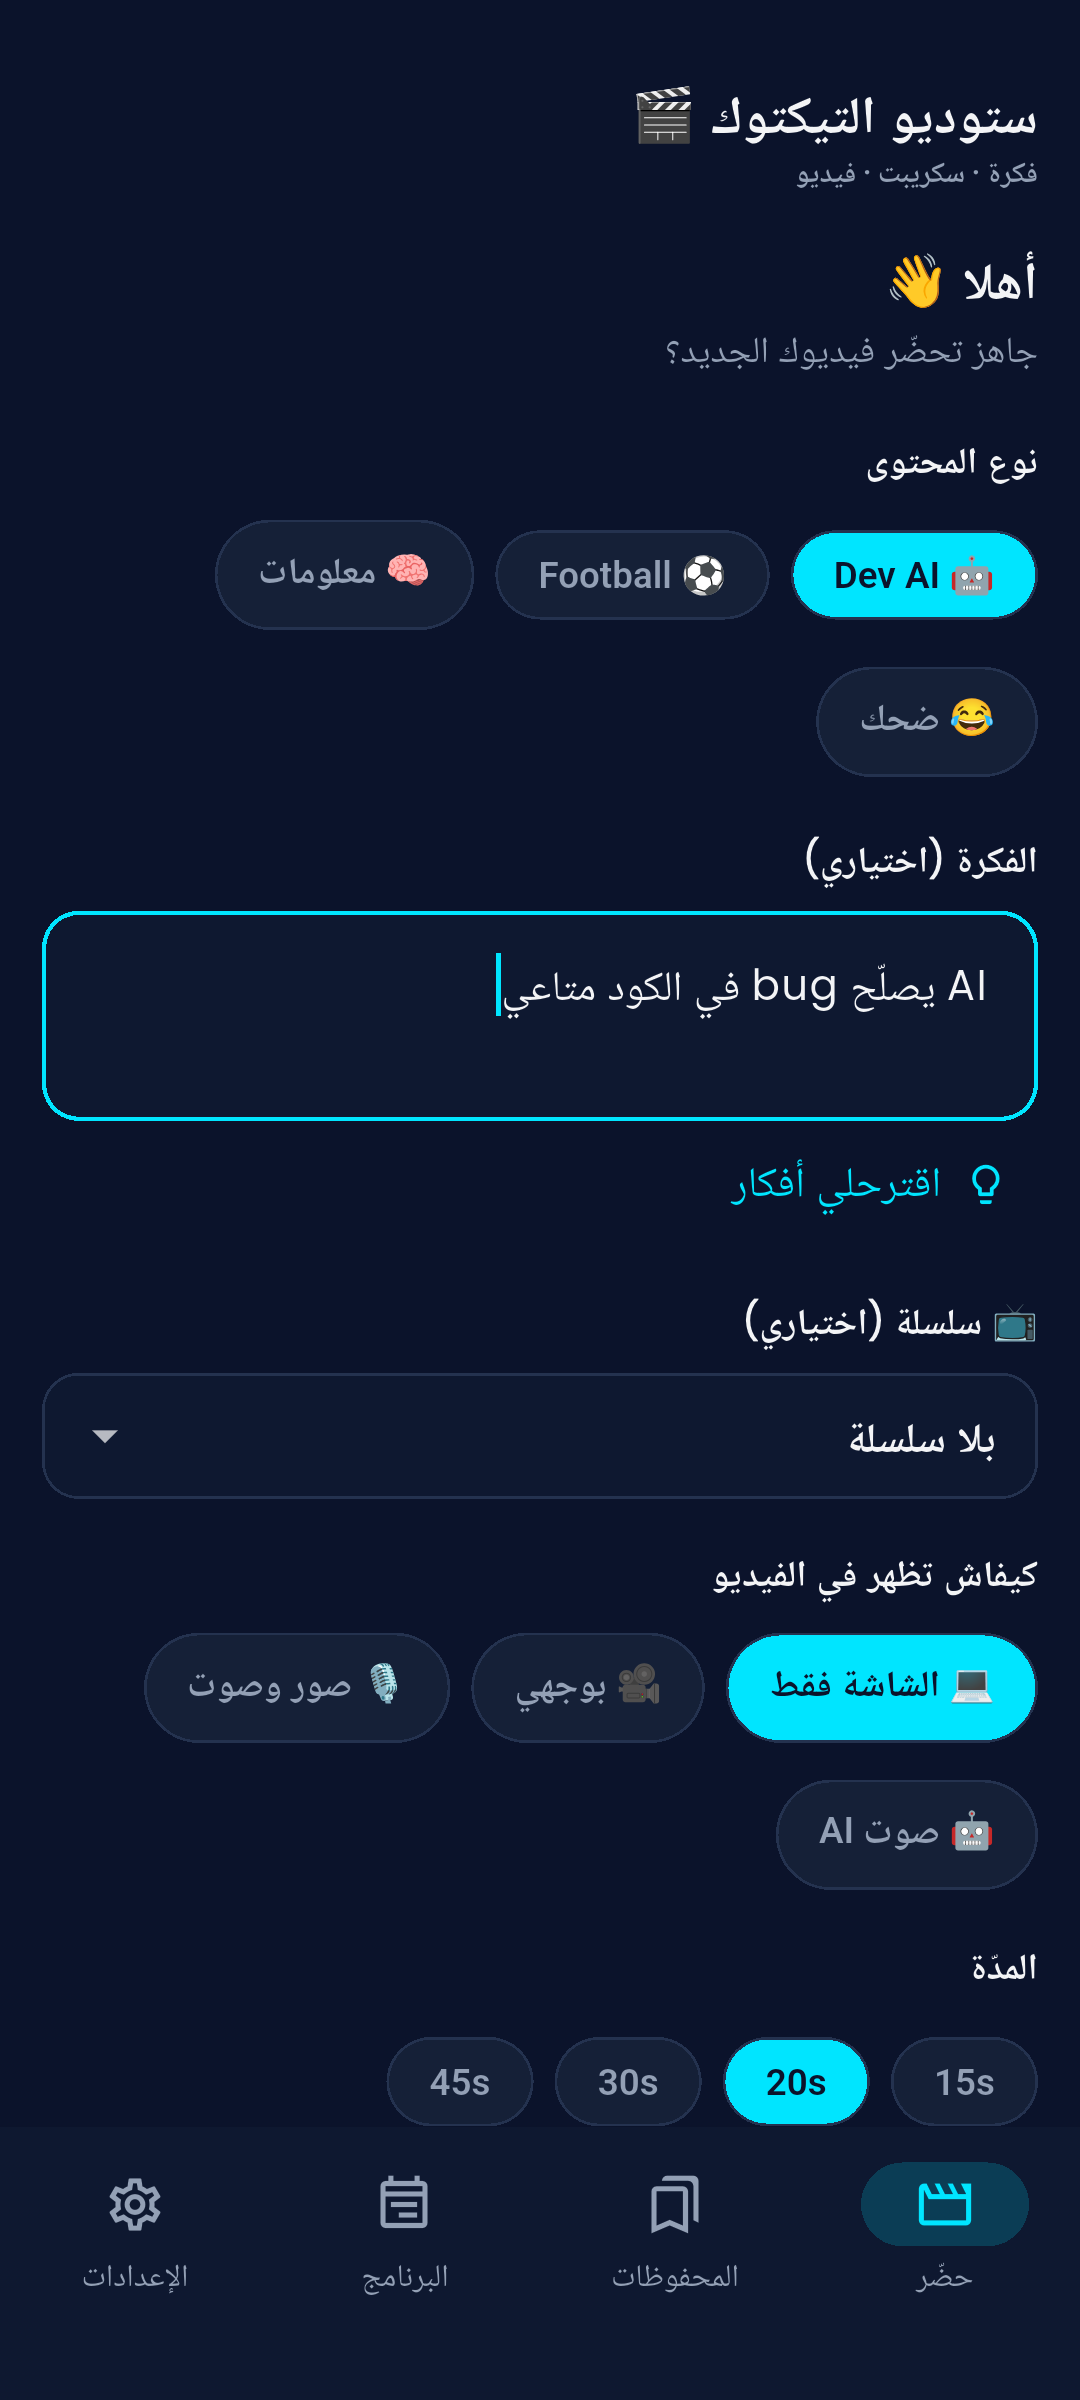
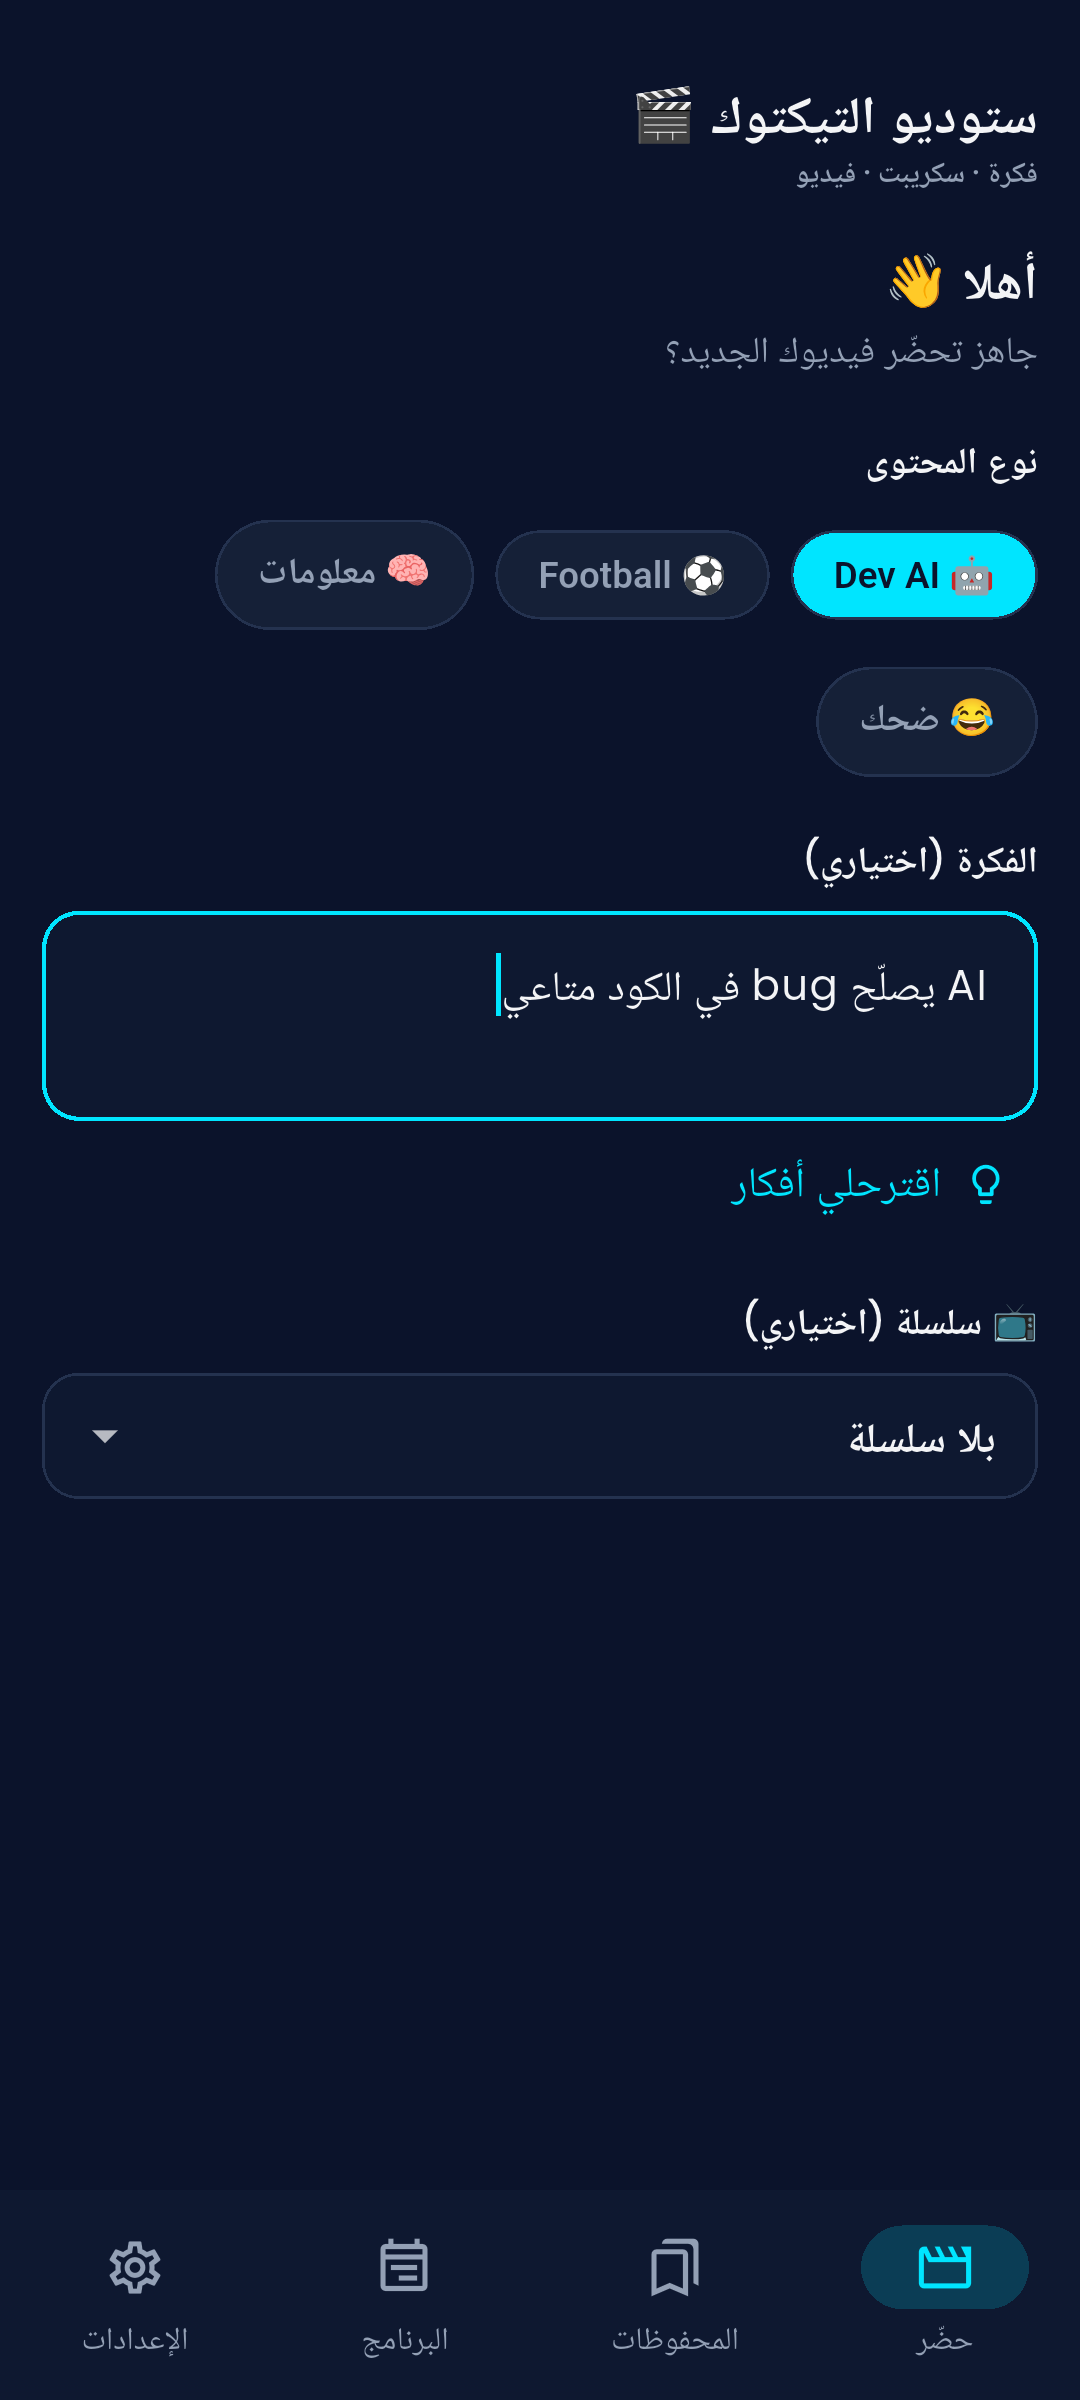
Tests: capture + enregistrement caméra (vidéo + son) dans screenshots_test
- screenshots_test: étape RecordScreen (Teleprompter → 🎥), enregistrement
  réel (sجّل → 3-2-1 → ~5s → وقّف) et vérif sauvegarde galerie
- tapVisible plus robuste (scroll multi-scrollable + attente render)
- captures: 6_record, 7_recording (preview live + son), 8_saved
- Vérifié: MP4 1.66 Mo avec piste vidéo (avc1/H.264) + piste audio (soun)

diff --git a/integration_test/screenshots_test.dart b/integration_test/screenshots_test.dart
@@ -5,6 +5,7 @@
 
 import 'dart:convert';
 
+import 'package:camera/camera.dart';
 import 'package:flutter/material.dart';
 import 'package:flutter_test/flutter_test.dart';
 import 'package:http/http.dart' as http;
@@ -67,13 +68,19 @@ void main() {
   }
 
   Future<void> tapVisible(WidgetTester t, Finder f) async {
+    // نلوّج على العنصر: نجرّبو كل Scrollable عمودي (فمّا scrollers أفقية للـchips)
     if (f.evaluate().isEmpty) {
-      final sc = find.byType(Scrollable);
-      if (sc.evaluate().isNotEmpty) {
+      for (final sc in find.byType(Scrollable).evaluate()) {
+        if (f.evaluate().isNotEmpty) break;
         try {
-          await t.scrollUntilVisible(f, 250, scrollable: sc.first);
+          await t.scrollUntilVisible(f, 200,
+              scrollable: find.byWidget(sc.widget), maxScrolls: 30);
         } catch (_) {}
       }
+    }
+    // نستنّى شويّة كان مازال ما بان (render بطيء على émulateur بارد)
+    for (var i = 0; i < 20 && f.evaluate().isEmpty; i++) {
+      await t.pump(const Duration(milliseconds: 200));
     }
     await t.ensureVisible(f);
     await t.pumpAndSettle();
@@ -107,6 +114,47 @@ void main() {
       }
       await tester.pumpAndSettle();
       await shot(tester, '2_result');
+
+      // 6) تسجيل بالكاميرا (Teleprompter → 🎥) — الأذونات تتعطا بالتوازي عبر adb
+      await tapVisible(tester, find.text('Teleprompter'));
+      await tester.pumpAndSettle();
+      await tapVisible(tester, find.byTooltip('سجّل بالكاميرا'));
+      for (var i = 0; i < 100; i++) {
+        await tester.pump(const Duration(milliseconds: 300));
+        if (find.byType(CameraPreview).evaluate().isNotEmpty) break;
+      }
+      await tester.pumpAndSettle();
+      await shot(tester, '6_record');
+
+      // نسجّلو فيديو حقيقي: سجّل → 3-2-1 → ~4s → وقّف → يتسجّل فالـgalerie
+      final recBtn = find.text('سجّل');
+      if (recBtn.evaluate().isNotEmpty) {
+        await tester.tap(recBtn);
+        // العدّ التنازلي 3 ثواني + تسجيل
+        for (var i = 0; i < 24; i++) {
+          await tester.pump(const Duration(milliseconds: 300));
+        }
+        await shot(tester, '7_recording');
+        // نكمّلو شويّة تسجيل
+        for (var i = 0; i < 14; i++) {
+          await tester.pump(const Duration(milliseconds: 300));
+        }
+        final stopBtn = find.text('وقّف التسجيل');
+        if (stopBtn.evaluate().isNotEmpty) {
+          await tester.tap(stopBtn);
+          // نستنّاو الحفظ فالـgalerie
+          for (var i = 0; i < 40; i++) {
+            await tester.pump(const Duration(milliseconds: 300));
+            if (find.text('تسجّل الفيديو في الـgalerie ✅').evaluate().isNotEmpty) break;
+          }
+          await shot(tester, '8_saved');
+        }
+      }
+
+      await tester.pageBack(); // من التسجيل
+      await tester.pumpAndSettle();
+      await tester.pageBack(); // من Teleprompter → النتيجة
+      await tester.pumpAndSettle();
 
       // 3) المحفوظات
       await tester.pageBack();
